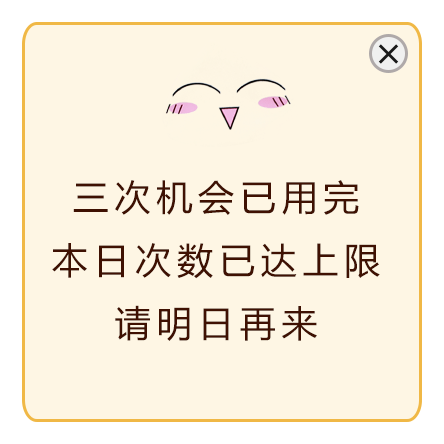
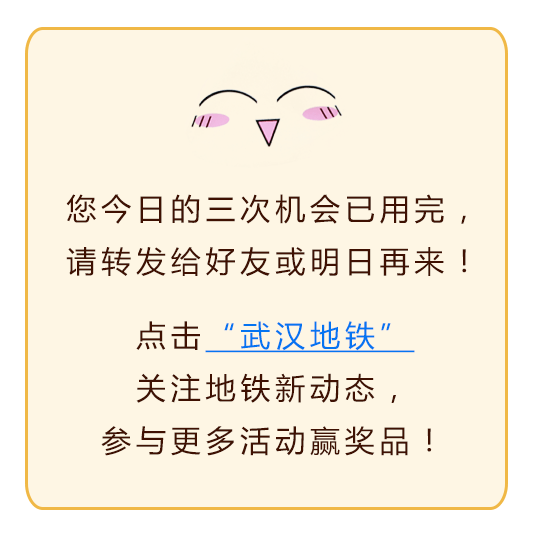
upgrade

diff --git a/src/pages/game/resultSprite.ts b/src/pages/game/resultSprite.ts
@@ -8,6 +8,7 @@ namespace pages.game {
 			super();
 			this.score = score;
 			this.rank = rank;
+			window['LP'].rank = rank;
 		}
 
 		public onAddedToStage(event: egret.Event) : void {
@@ -21,8 +22,8 @@ namespace pages.game {
 			scoreField.fontFamily = "Microsoft Yahei";
 			scoreField.bold = true;
 			scoreField.x = 400;
-			scoreField.y = 565;
-			scoreField.width = 175;
+			scoreField.y = 558;
+			scoreField.width = 172;
 			scoreField.height = 33;
 			if (DEBUG) scoreField.border = true;
 			scoreField.size = 28;
@@ -37,9 +38,9 @@ namespace pages.game {
 			rankField.name = 'rank';
 			rankField.fontFamily = "Microsoft Yahei";
 			rankField.bold = true;
-			rankField.x = 420;
-			rankField.y = 658;
-			rankField.width = 154;
+			rankField.x = 400;
+			rankField.y = 650;
+			rankField.width = 172;
 			rankField.height = 33;
 			if (DEBUG) rankField.border = true;
 			rankField.size = 28;
@@ -49,21 +50,35 @@ namespace pages.game {
 			rankField.textAlign = egret.HorizontalAlign.CENTER;
 			this.addChild(rankField);
 
-			let buttonRank: layer.ui.ButtonUI = new layer.ui.ButtonUI('btn-rank_png', 'click_mp3');
+			let buttonRank: layer.ui.BlankButtonUI = new layer.ui.BlankButtonUI('click_mp3');
 			buttonRank.x = 123;
-			buttonRank.y = 843;
+			buttonRank.y = 813;
+			buttonRank.width = 230;
+			buttonRank.height = 62;
 			buttonRank.once(egret.TouchEvent.TOUCH_TAP, () => {
 				new RankPage();
 			}, this);
 			this.addChild(buttonRank);
 
-			let buttonHome: layer.ui.ButtonUI = new layer.ui.ButtonUI('btn-home_png', 'click_mp3');
+			let buttonHome: layer.ui.BlankButtonUI = new layer.ui.BlankButtonUI('click_mp3');
 			buttonHome.x = 408;
-			buttonHome.y = 843;
+			buttonHome.y = 813;
+			buttonHome.width = 230;
+			buttonHome.height = 62;
 			buttonHome.once(egret.TouchEvent.TOUCH_TAP, () => {
 				window.location.href = window['baseURI'] + 'crush?_=' + Math.random();
 			}, this);
 			this.addChild(buttonHome);
+
+			let linkHome: layer.ui.BlankButtonUI = new layer.ui.BlankButtonUI('click_mp3');
+			linkHome.x = 153;
+			linkHome.y = 901;
+			linkHome.width = 452;
+			linkHome.height = 68;
+			linkHome.once(egret.TouchEvent.TOUCH_TAP, () => {
+				window.location.href = window['LP']['share'];
+			}, this);
+			this.addChild(linkHome);
 		}
 
 		public onRemovedFromStage(event: egret.Event): void {

diff --git a/src/pages/rank.ts b/src/pages/rank.ts
@@ -18,13 +18,13 @@ namespace pages {
 			this.addChild(bgSprite);
 
 			let frameSprite: layer.ui.BitmapUI = new layer.ui.BitmapUI("rank_frame_png");
-			frameSprite.x = 48;
-			frameSprite.y = 48;
+			frameSprite.x = 51;
+			frameSprite.y = 27;
 			this.addChild(frameSprite);
 
 			let rankSprite: pages.rank.RankSprite = new pages.rank.RankSprite();
-			rankSprite.x = 84;
-			rankSprite.y = 177;
+			rankSprite.x = 85;
+			rankSprite.y = 180;
 			this.addChild(rankSprite);
 
 			network.topQuery().then(data => {
@@ -35,7 +35,7 @@ namespace pages {
 			homeButton.name = 'rank-button';
 			homeButton.touchEnabled = true;
 			homeButton.x = 241;
-			homeButton.y = 1068;
+			homeButton.y = 1090;
 			homeButton.width = 311;
 			homeButton.height = 78;
 			homeButton.once(egret.TouchEvent.TOUCH_TAP, () => {

diff --git a/src/pages/game/scorebar.ts b/src/pages/game/scorebar.ts
@@ -51,7 +51,7 @@ namespace pages.game {
 			countdownField.fontFamily = "Microsoft Yahei";
 			countdownField.bold = true;
 			countdownField.x = 335;
-			countdownField.y = 310;
+			countdownField.y = 315;
 			countdownField.width = 125;
 			countdownField.height = 34;
 			if (DEBUG) countdownField.border = true;
@@ -68,7 +68,7 @@ namespace pages.game {
 			scoreField.fontFamily = "Microsoft Yahei";
 			scoreField.bold = true;
 			scoreField.x = 600;
-			scoreField.y = 310;
+			scoreField.y = 315;
 			scoreField.width = 115;
 			scoreField.height = 34;
 			if (DEBUG) scoreField.border = true;

diff --git a/src/pages/game1.ts b/src/pages/game1.ts
@@ -44,9 +44,14 @@ namespace pages {
 					this.addChild(maskUI);
 
 					let tips = new layer.ui.BitmapUI('out-tips_png');
-					tips.x = this.stage.stageWidth / 2 - tips.width / 2;
-					tips.y = this.stage.stageHeight / 2 - tips.height / 2;
+					tips.x = this.stage.stageWidth - tips.width >> 1;
+					tips.y = this.stage.stageHeight - tips.height >> 1;
+					tips.touchEnabled = true;
+					tips.once(egret.TouchEvent.TOUCH_TAP, () => {
+						window.location.href = window['LP'].share;
+					}, this);
 					this.addChild(tips);
+
 					this.readySprite.destroy();
 				}
 				else

diff --git a/src/pages/login.ts b/src/pages/login.ts
@@ -89,7 +89,6 @@ namespace pages {
 				
 			}
 			this.addChild(startButton);
-			
 		}
 
 		public removeAllEventListeners(): void {
